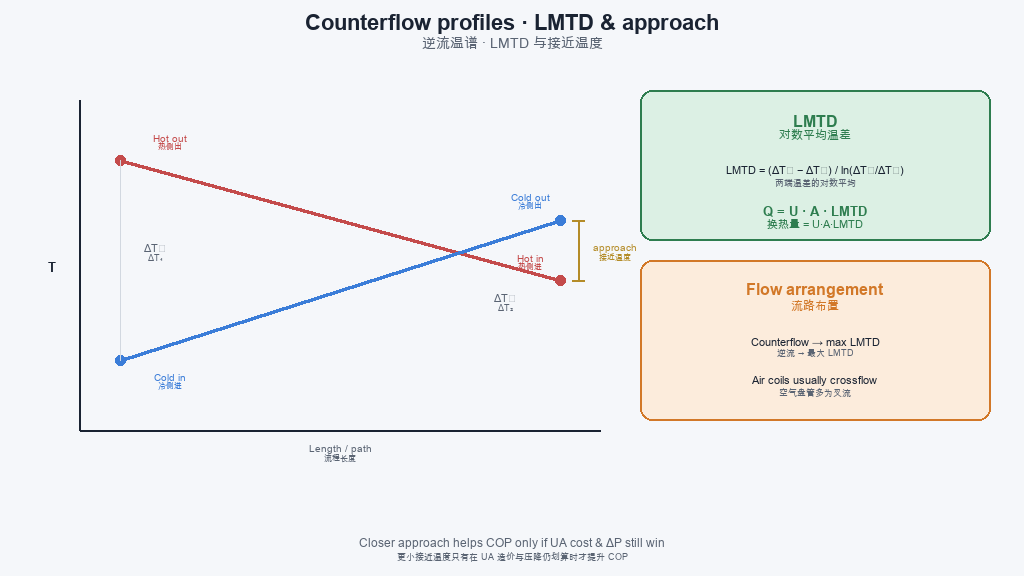
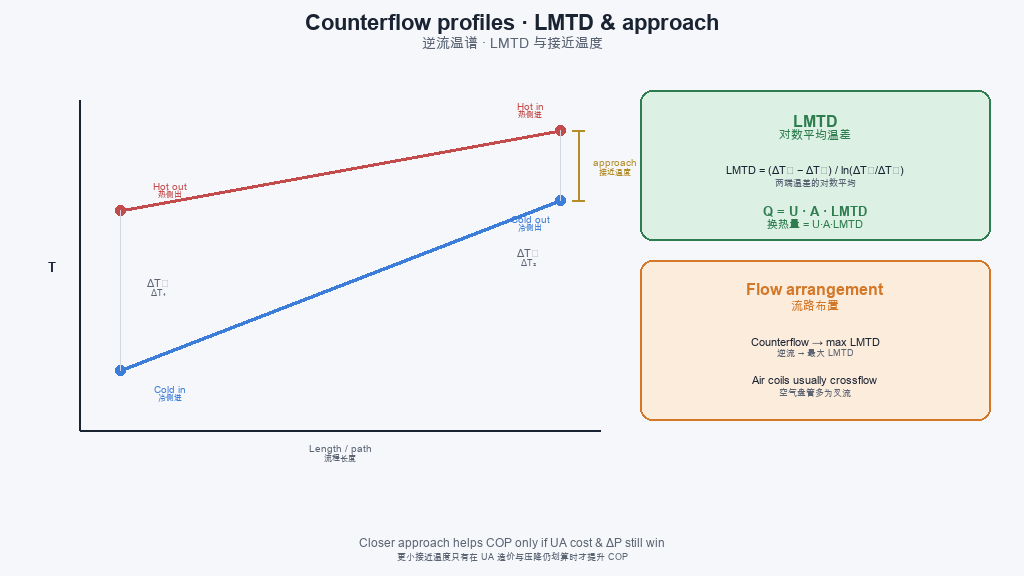
修正换热器逆流温谱配图，消除冷热流体温度交叉。

diff --git a/scripts/generate-knowledge-hx-diagrams.py b/scripts/generate-knowledge-hx-diagrams.py
@@ -239,10 +239,11 @@ def draw_hx_lmtd(fonts: Fonts):
     text_center(d, (ox - 28, (oy + ay) / 2), "T", fonts.b, INK)
     bilingual_center(d, (ox + ax / 2, oy + 22), "Length / path", "流程长度", fonts.xs, fonts.zxs, MUTED, MUTED, gap=1)
 
-    # Hot stream (descending left→right in counterflow: hot enters right)
-    # Counterflow: hot from right (high) to left (lower), cold from left (low) to right (higher)
-    hot = [(ox + 40, 160), (ox + ax - 40, 280)]
-    cold = [(ox + 40, 360), (ox + ax - 40, 220)]
+    # Counterflow vs length (cold flows left→right): left = Hot out / Cold in; right = Hot in / Cold out.
+    # Hot must stay above cold everywhere — no temperature cross (Cold out < Hot in).
+    # y decreases upward (higher T). Hot in (right) > Hot out (left); Cold out (right) > Cold in (left).
+    hot = [(ox + 40, 210), (ox + ax - 40, 130)]
+    cold = [(ox + 40, 370), (ox + ax - 40, 200)]
     d.line([hot[0], hot[1]], fill=RED, width=4)
     d.line([cold[0], cold[1]], fill=BLUE, width=4)
     d.ellipse([hot[0][0] - 5, hot[0][1] - 5, hot[0][0] + 5, hot[0][1] + 5], fill=RED)
@@ -250,22 +251,23 @@ def draw_hx_lmtd(fonts: Fonts):
     d.ellipse([cold[0][0] - 5, cold[0][1] - 5, cold[0][0] + 5, cold[0][1] + 5], fill=BLUE)
     d.ellipse([cold[1][0] - 5, cold[1][1] - 5, cold[1][0] + 5, cold[1][1] + 5], fill=BLUE)
 
-    bilingual_center(d, (ox + 90, 140), "Hot out", "热侧出", fonts.xs, fonts.zxs, RED, RED, gap=1)
-    bilingual_center(d, (ox + ax - 70, 260), "Hot in", "热侧进", fonts.xs, fonts.zxs, RED, RED, gap=1)
-    bilingual_center(d, (ox + 90, 380), "Cold in", "冷侧进", fonts.xs, fonts.zxs, BLUE, BLUE, gap=1)
-    bilingual_center(d, (ox + ax - 70, 200), "Cold out", "冷侧出", fonts.xs, fonts.zxs, BLUE, BLUE, gap=1)
+    bilingual_center(d, (ox + 90, 188), "Hot out", "热侧出", fonts.xs, fonts.zxs, RED, RED, gap=1)
+    bilingual_center(d, (ox + ax - 70, 108), "Hot in", "热侧进", fonts.xs, fonts.zxs, RED, RED, gap=1)
+    bilingual_center(d, (ox + 90, 392), "Cold in", "冷侧进", fonts.xs, fonts.zxs, BLUE, BLUE, gap=1)
+    bilingual_center(d, (ox + ax - 70, 222), "Cold out", "冷侧出", fonts.xs, fonts.zxs, BLUE, BLUE, gap=1)
 
     # Approach bracket at cold-out / hot-in end (right)
     rx = ox + ax - 40
-    d.line([(rx + 18, 220), (rx + 18, 280)], fill=GOLD, width=2)
-    d.line([(rx + 12, 220), (rx + 24, 220)], fill=GOLD, width=2)
-    d.line([(rx + 12, 280), (rx + 24, 280)], fill=GOLD, width=2)
-    bilingual_center(d, (rx + 55, 250), "approach", "接近温度", fonts.xs, fonts.zxs, GOLD, GOLD, gap=1)
+    d.line([(rx + 18, 130), (rx + 18, 200)], fill=GOLD, width=2)
+    d.line([(rx + 12, 130), (rx + 24, 130)], fill=GOLD, width=2)
+    d.line([(rx + 12, 200), (rx + 24, 200)], fill=GOLD, width=2)
+    bilingual_center(d, (rx + 55, 165), "approach", "接近温度", fonts.xs, fonts.zxs, GOLD, GOLD, gap=1)
 
-    # ΔT1 / ΔT2 labels
-    d.line([(ox + 40, 160), (ox + 40, 360)], fill=GRID, width=1)
-    bilingual_center(d, (ox + 75, 250), "ΔT₁", "ΔT₁", fonts.s, fonts.zs, MUTED, MUTED, gap=1)
-    bilingual_center(d, (ox + ax - 95, 300), "ΔT₂", "ΔT₂", fonts.s, fonts.zs, MUTED, MUTED, gap=1)
+    # ΔT1 / ΔT2 labels (end temperature differences)
+    d.line([(ox + 40, 210), (ox + 40, 370)], fill=GRID, width=1)
+    d.line([(ox + ax - 40, 130), (ox + ax - 40, 200)], fill=GRID, width=1)
+    bilingual_center(d, (ox + 78, 285), "ΔT₁", "ΔT₁", fonts.s, fonts.zs, MUTED, MUTED, gap=1)
+    bilingual_center(d, (ox + ax - 72, 255), "ΔT₂", "ΔT₂", fonts.s, fonts.zs, MUTED, MUTED, gap=1)
 
     # Side panels
     p1 = (640, 90, 990, 240)